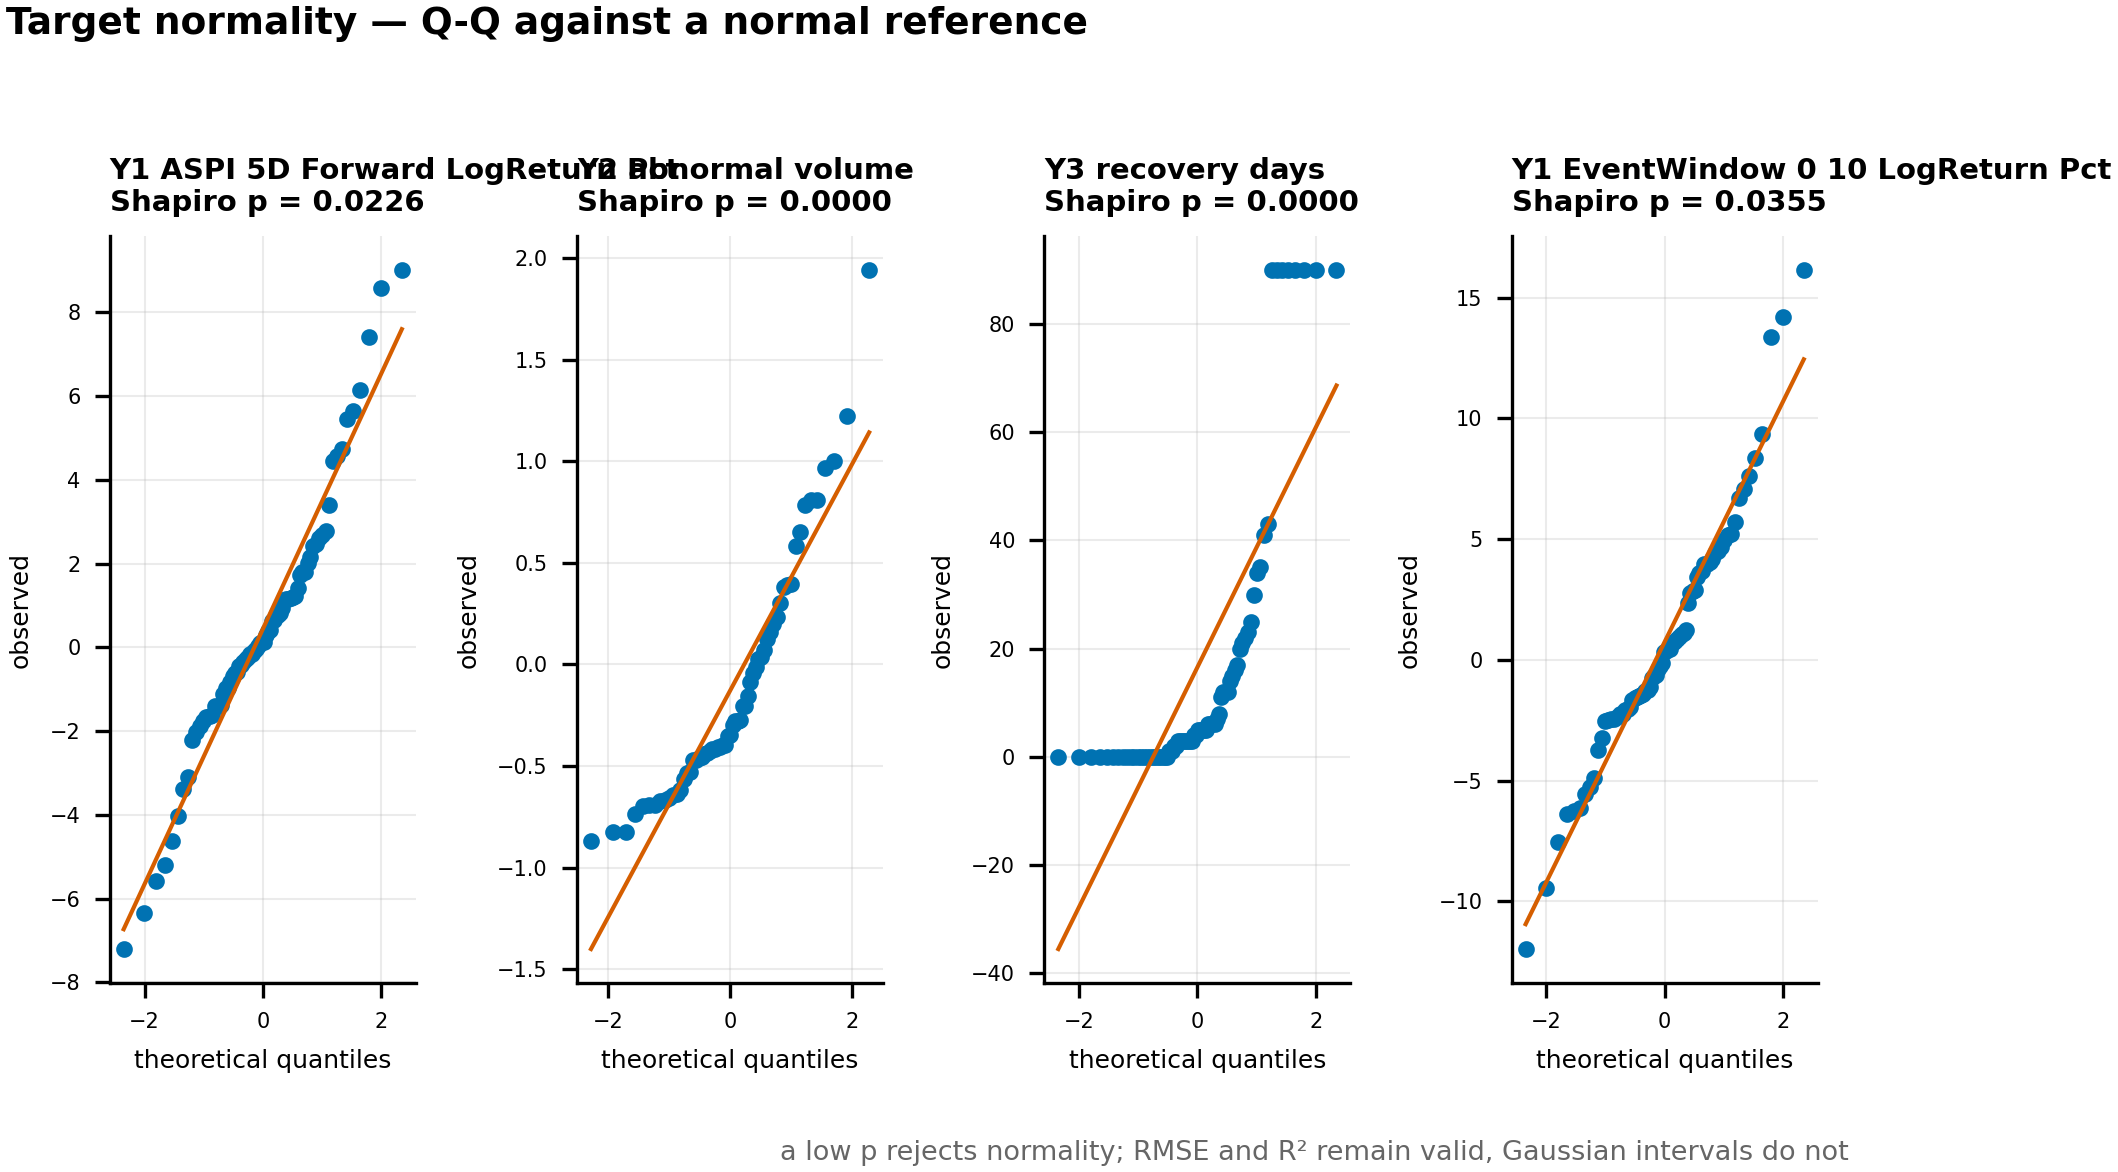
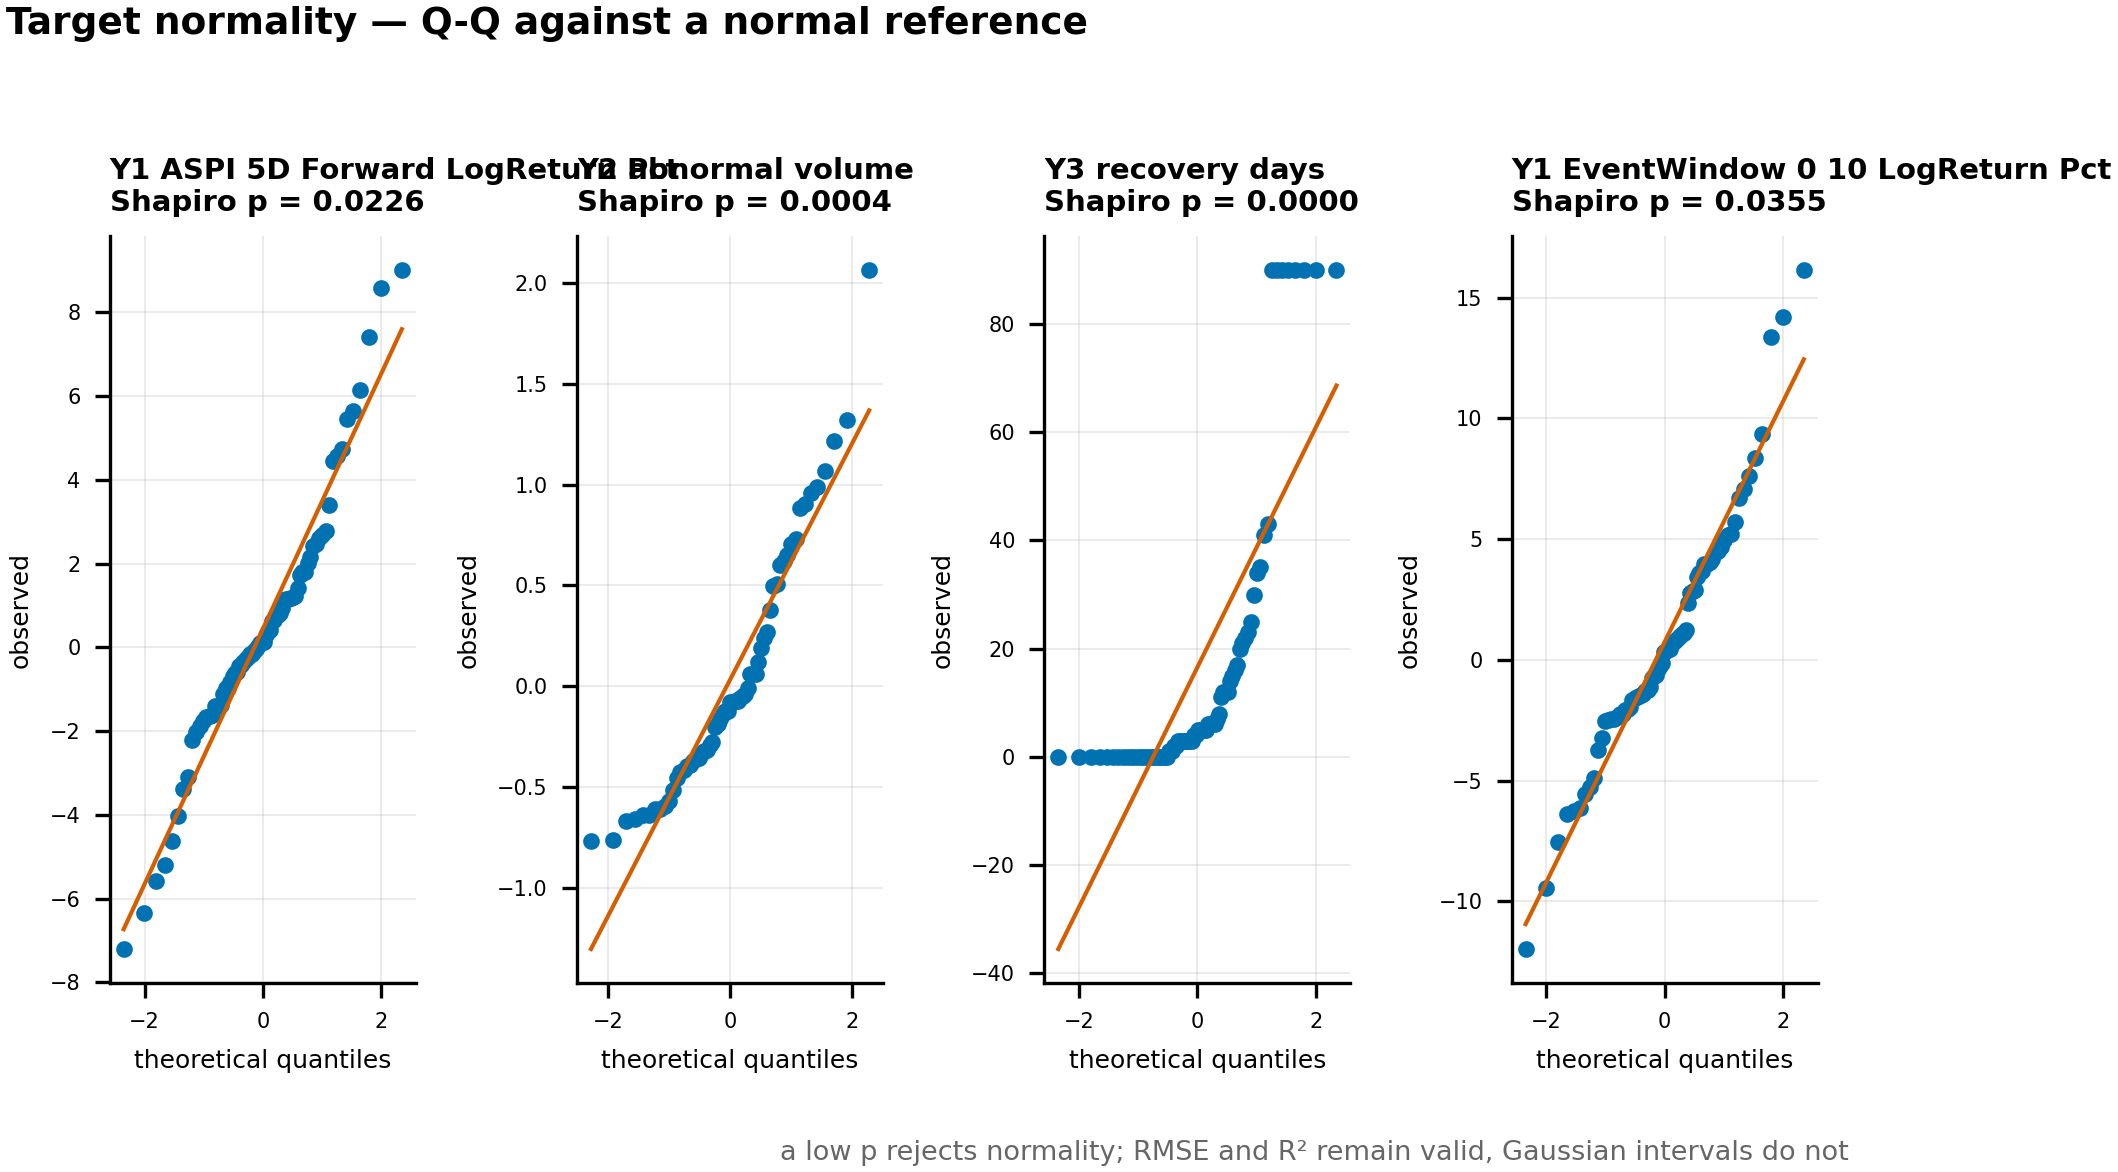
try changeing targets

diff --git a/src/targets/event_targets.py b/src/targets/event_targets.py
@@ -8,6 +8,7 @@ import pandas as pd
 ADVERSE_RESPONSE_WINDOW = 5
 DEFAULT_MAX_RECOVERY_DAYS = 90
 ASPI_FORWARD_SESSIONS = 5
+VOLUME_RESPONSE_SESSIONS = 5
 EVENT_WINDOW_SESSIONS = (10,)
 
 
@@ -40,19 +41,33 @@ def calculate_aspi_percentage_change(market, position, pre_event_close, sessions
 
 
 def calculate_volume_crash_magnitude(market, position, volume_col="trading_volume",
-                                     baseline_sessions=30):
-    """Event day volume relative to its own trailing baseline, minus one.
+                                     baseline_sessions=30,
+                                     response_sessions=VOLUME_RESPONSE_SESSIONS,
+                                     date_col="date"):
+    """Mean volume over the response window against its own trailing baseline, minus one.
 
-    Returns NaN when the series carries no volume column, which is the case for
-    the sector indices where the exchange publishes volume market wide only.
+    The response window is the FIVE post event sessions t0 .. t0+4, t0 counted as the
+    first. Returns (value, label_end_date); the label end date is the final session of
+    that window, NOT t0 -- the walk forward purge reads it, so dating it at t0 would
+    leave training rows whose window overlaps the test period unpurged.
+
+    Returns NaN when the series carries no volume column, which is the case for the
+    sector indices where the exchange publishes volume market wide only, and when the
+    window would run off the end of the series rather than be silently truncated.
     """
     if volume_col not in market.columns:
-        return np.nan
+        return np.nan, pd.NaT
     baseline_start = max(0, position - baseline_sessions)
     baseline_mean = market.iloc[baseline_start:position][volume_col].mean()
     if not baseline_mean or np.isnan(baseline_mean):
-        return np.nan
-    return float((market.iloc[position][volume_col] / baseline_mean) - 1.0)
+        return np.nan, pd.NaT
+    end = position + response_sessions - 1
+    if end >= len(market):
+        return np.nan, pd.NaT
+    window = market.iloc[position:end + 1][volume_col]
+    if window.isna().any():
+        return np.nan, pd.NaT
+    return float((window.mean() / baseline_mean) - 1.0), market.iloc[end][date_col]
 
 
 def find_competing_event_position(market, event_dates_sorted, row_index, date_col="date"):
@@ -119,8 +134,8 @@ def build_event_targets(market_df, disaster_df, date_col="date", price_col="aspi
 
         aspi_change, aspi_end_date = calculate_aspi_percentage_change(
             market, position, pre_event_close, ASPI_FORWARD_SESSIONS, date_col, price_col)
-        volume_crash = calculate_volume_crash_magnitude(market, position, volume_col)
-        volume_label_end_date = market.iloc[position][date_col]
+        volume_crash, volume_label_end_date = calculate_volume_crash_magnitude(
+            market, position, volume_col, date_col=date_col)
 
         competing_position = find_competing_event_position(
             market, event_dates_sorted, row_index, date_col)
@@ -165,7 +180,7 @@ if __name__ == "__main__":
     price = np.full(80, 100.0)
     price[40:46] = [95.0, 96.0, 97.0, 98.0, 99.0, 101.0]
     volume = np.full(80, 1_000.0)
-    volume[40] = 2_000.0
+    volume[40:45] = 2_000.0          # the whole five session response window
     market = pd.DataFrame({"date": sessions, "aspi_close": price, "trading_volume": volume})
     events = pd.DataFrame({"event_date": [sessions[40]]})
 
@@ -173,6 +188,8 @@ if __name__ == "__main__":
     row = out.iloc[0]
 
     assert row["Y2_abnormal_volume"] == 1.0, row["Y2_abnormal_volume"]
+    # Y2's label is not known until the response window closes at t0+4.
+    assert row["Y2_label_end_date"] == sessions[44], row["Y2_label_end_date"]
     assert abs(row["Y1_ASPI_5D_Forward_LogReturn_Pct"] - 100.0 * np.log(101.0 / 100.0)) < 1e-9
     assert bool(row["Y3_drawdown_occurred"])
     assert row["Y3_recovery_days"] == 5.0, row["Y3_recovery_days"]

diff --git a/src/features/feature_engineering.py b/src/features/feature_engineering.py
@@ -112,7 +112,7 @@ class FeatureEngineer:
             df[f"rolling_std_{window}"] = shifted_returns.rolling(window=window, min_periods=window).std()
 
         # Dedicated 30-day panic-proxy volatility, distinct from the momentum windows above:
-        # this is the window that mirrors the 30-day volume baseline used for Y2.
+        # this is the window that mirrors the 30-session pre-event volume baseline in Y2.
         df["rolling_std_30"] = shifted_returns.rolling(window=30, min_periods=30).std()
 
         df["squared_return"] = df["log_return"] ** 2

diff --git a/src/models/classifiers.py b/src/models/classifiers.py
@@ -38,7 +38,8 @@ def label_adverse_move(y, train_idx, dataset=None):
 
 
 def label_volume_spike(y, train_idx=None, dataset=None):
-    """C2: Y2 > 0, i.e. volume above its own 30-day baseline.
+    """C2: Y2 > 0, i.e. mean volume over the five post-event sessions above the 30-session
+    pre-event baseline.
 
     Zero is where the target is centred by construction (Y2 = V/V_bar - 1), so this is the
     natural cut rather than a chosen one.

diff --git a/docs/target_definitions.md b/docs/target_definitions.md
@@ -1,0 +1,260 @@
+# Target definitions — as implemented
+
+Written for: the researcher, to adapt into thesis §3.2.2 and Table 4.
+
+This document states exactly what the code computes, in a form precise enough that a
+second person could reproduce the dataset from this page alone. It replaces the
+underspecified wording currently in §3.2.2, which defines Y1 as a daily return
+(`ln(P_t / P_{t−1})`) and leaves Y2's window and Y3's baseline unstated.
+
+Implementation: `src/targets/event_targets.py`. Dataset: 74 events, 2000-09-18 to
+2025-11-27.
+
+---
+
+## 1. Event alignment
+
+Let `t0` be the **first valid CSE trading session on or after the recorded disaster date**.
+
+A disaster falling on a Saturday, Sunday or market holiday advances `t0` to the next real
+trading session. No observation is fabricated for a non-trading day.
+
+`P[k]` denotes the ASPI close at session offset `k` from `t0`, and `V[k]` the market-wide
+traded volume (the sum of every listed security's share volume) at that session. So `P[−1]`
+is the last pre-event close and `P[0]` is the close on `t0` itself.
+
+**Counting convention.** Offsets are relative to `t0`, which carries offset 0. `t0+5` is
+therefore the sixth post-event session. State this explicitly in the thesis — it is the
+single most common source of irreproducibility in event studies.
+
+An event is excluded when `t0` cannot be located in the market series, or when `t0` is the
+first session of the series (no `P[−1]` exists to baseline against).
+
+---
+
+## 2. Y1 — ASPI percentage change
+
+```
+Y1_5D  = 100 · ln( P[+5] / P[−1] )
+Y1_10D = 100 · ln( P[+10] / P[−1] )
+```
+
+The continuously compounded return, in percent, from the last pre-event close to the
+close five (respectively ten) sessions after the disaster session.
+
+|                  |                                                                               |
+| ---------------- | ----------------------------------------------------------------------------- |
+| units            | percent (log points)                                                          |
+| support          | unbounded                                                                     |
+| sessions spanned | **Y1_5D spans 7 sessions**, `t0−1` through `t0+5`; Y1_10D spans 12 |
+| label-end date   | `date[t0+5]` / `date[t0+10]`                                              |
+| missing when     | fewer than 5 (resp. 10) sessions remain in the series after`t0`             |
+
+**Wording caution.** Calling `Y1_5D` a "five-day window" is inaccurate — the return covers
+six steps across seven sessions. Either rename it (e.g. "five-session forward return from
+the pre-event close") or change the endpoint to `P[+4]`, which genuinely spans five
+post-event sessions. Do not leave the label and the formula disagreeing.
+
+`Y1_10D` is a pre-registered sensitivity analysis of Y1, not a fourth research target.
+
+### Observed values
+
+|        | n  | mean   | sd    | min      | p25     | median | p75    | max     |
+| ------ | -- | ------ | ----- | -------- | ------- | ------ | ------ | ------- |
+| Y1 5D  | 74 | +0.433 | 3.053 | −7.203  | −1.072 | +0.120 | +1.775 | +9.009  |
+| Y1 10D | 74 | +0.749 | 4.983 | −11.981 | −2.053 | +0.349 | +3.888 | +16.150 |
+
+45.9% of events are negative at 5 sessions, 48.6% at 10. The distribution is close to
+symmetric around zero — disasters do not, on average, move the CSE in a fixed direction.
+
+---
+
+## 3. Y2 — abnormal trading volume
+
+```
+V_base = mean( V[-30] … V[-1] )          30 sessions, t0 excluded
+
+Y2 = mean( V[0] … V[+4] ) / V_base - 1
+```
+
+Mean market-wide traded volume over the **five post-event sessions**, `t0` counted as the
+first, relative to its own trailing 30-session mean, minus one.
+
+| | |
+|---|---|
+| units | ratio (0.50 means 50% above the baseline) |
+| support | `[-1, inf)` — volume cannot be negative |
+| response window | `t0` … `t0+4`, exactly 5 sessions |
+| baseline window | `t0-30` … `t0-1`, exactly 30 sessions, `t0` excluded |
+| label-end date | `date[t0+4]` |
+| missing when | the volume series is unavailable, or fewer than 5 sessions remain after `t0` |
+
+**Label-end date.** `date[t0+4]`, the final session of the response window — not `t0`. The
+walk-forward purge reads this column to drop training events whose label reaches into a
+test period. Dating it at `t0` would under-purge by four sessions and let test-period
+information into training. This is a correctness requirement, not a convention.
+
+**Window alignment.** Y2 closes at `t0+4`; Y1_5D closes at `t0+5`. The two "5-day" targets
+therefore end on different sessions, because Y1 is a return measured from `P[-1]` while Y2
+is a mean over five post-event sessions. If the thesis needs them aligned, either extend
+Y2 to `V[0] … V[+5]` or move Y1's endpoint to `P[+4]`.
+
+**Naming.** "Volume crash magnitude" presupposes a negative sign. 37.7% of observed values
+are positive. Prefer "abnormal trading volume" or "post-disaster volume deviation".
+
+### Observed values
+
+| n | mean | sd | min | p25 | median | p75 | max |
+|---|---|---|---|---|---|---|---|
+| 61 | +0.032 | 0.600 | -0.769 | — | -0.080 | — | +2.066 |
+
+Observed for 61 of 74 events. The 13 missing are the 2000 archive year and post-2023
+events, where the exchange publishes the index level but not market-wide volume. These
+must stay missing — never zero-filled, which would assert "volume exactly at baseline."
+
+---
+
+## 4. Y3 — market recovery sessions
+
+Baseline for recovery is the **last pre-event close**, `P[−1]`.
+
+Three steps:
+
+1. **Adverse-response gate.** Examine `P[0] … P[+5]`. Let the trough be the minimum close
+   in that window. A qualifying drawdown occurs when `trough < P[−1]`.
+2. **No qualifying drawdown** → `Y3 = 0`, `drawdown_occurred = False`. The market never
+   fell below its pre-event level, so no recovery duration is defined. This is a recorded
+   state, not a fabricated duration of zero days.
+3. **Drawdown occurred** → search forward from the trough session for the first session
+   where `P[k] ≥ P[−1]`. Then `Y3 = k`, counted from `t0`.
+
+```
+Y3 = k  such that  P[k] ≥ P[−1],  k measured from t0,
+     searching forward from the trough of P[0..+5]
+```
+
+|                |                                                        |
+| -------------- | ------------------------------------------------------ |
+| units          | CSE trading sessions                                   |
+| support        | `[0, 90]`                                            |
+| label-end date | `date[t0 + Y3]` — the recovery or censoring session |
+
+**Two distinct origins.** The recovery *search* begins at the trough; the recovery *count*
+runs from `t0`. These are different points and must not be conflated. State both.
+
+### Censoring
+
+Recovery that is not observed is **right-censored**, not recorded as a genuine 90-session
+recovery:
+
+| `Y3_censor_reason` | meaning                                        | `Y3_censored` | n  |
+| -------------------- | ---------------------------------------------- | --------------- | -- |
+| `recovered`        | recovery observed, or no drawdown occurred     | False           | 57 |
+| `cap_90`           | still below`P[−1]` after 90 sessions        | True            | 8  |
+| `next_disaster`    | a further qualifying disaster intervened first | True            | 9  |
+
+The competing-event case matters: when a second disaster arrives before the first has
+recovered, the follow-up is truncated at that session rather than attributing the second
+event's market movement to the first.
+
+Note a labelling quirk in the current implementation: events with **no drawdown** are given
+`censor_reason = "recovered"`, which is misleading — nothing was recovered because nothing
+fell. If you revise, `"no_drawdown"` is the clearer value. It does not affect any
+computation, only readability.
+
+Any censoring-aware model (survival, hurdle) must read `Y3_censored`, not infer censoring
+from `Y3 >= 90`.
+
+### Observed values
+
+| n  | mean   | sd     | min | p25 | median | p75   | max |
+| -- | ------ | ------ | --- | --- | ------ | ----- | --- |
+| 74 | 16.554 | 27.654 | 0   | 0   | 4.5    | 16.75 | 90  |
+
+- 51 of 74 events (68.9%) show a qualifying drawdown.
+- 23 events (31.1%) record `Y3 = 0` — no drawdown.
+- 17 events (23.0%) are censored: 8 at the cap, 9 by a competing disaster.
+- Among the 34 events with an **observed** recovery: median 5 sessions, p75 12, max 34.
+
+The distribution is right-skewed with a point mass at zero. Any model whose prediction
+carries a floor — for example a hurdle whose expectation includes a `(1 − P) · 90` term —
+is structurally disadvantaged against it.
+
+---
+
+## 5. Label-end dates
+
+Every target carries the session on which its value becomes fully known. The walk-forward
+purge reads these to drop training events whose label reaches into a test period.
+
+| target | column                                   | value             |
+| ------ | ---------------------------------------- | ----------------- |
+| Y1 5D  | `Y1_horizon_end_date`                  | `date[t0+5]`    |
+| Y1 10D | `Y1_EventWindow_0_10_horizon_end_date` | `date[t0+10]`   |
+| Y2     | `Y2_label_end_date`                    | `date[t0]`      |
+| Y3     | `Y3_label_end_date`                    | `date[t0 + Y3]` |
+
+If any target's window changes, its label-end date must change with it. This is not
+cosmetic — a stale label-end date is a leakage defect.
+
+---
+
+## 6. Worked example — 2004 Indian Ocean tsunami
+
+Disaster date 2004-12-26, a Sunday. 2004-12-27 was a market holiday, so `t0` advances to
+**2004-12-28**.
+
+```
+P[−1]  = 1,572.55   (2004-12-23)    V_base = mean(V[−30..−1]) = 7,810,033 shares
+P[0]   = 1,504.41   (2004-12-28)    V[0]   = 4,374,300 shares
+P[+5]  = 1,524.75   (2005-01-04)
+P[+10] = 1,562.05   (2005-01-11)
+
+Y1_5D  = 100 · ln(1524.75 / 1572.55)   = −3.0868
+Y1_10D = 100 · ln(1562.05 / 1572.55)   = −0.6699
+Y2     = mean(V[0..+4]) / 7,810,033 - 1 = -0.3608
+Y3     = 12 sessions (drawdown occurred, recovery observed)
+```
+
+Y1 and Y2 were reproduced by hand from the raw exchange workbook and matched the code to
+the digit.
+
+Read the numbers: five sessions after the tsunami the ASPI stood 3.09% below its
+pre-event close; ten sessions after, 0.67% below. Turnover over the five post-event sessions ran 36% below its
+30-session norm. The index regained its pre-event level twelve sessions after the
+disaster.
+
+Note what the event day itself shows: the ASPI fell from 1,572.55 to 1,504.41 on `t0`, a
+4.3% single-session drop, and turnover halved. The index then recovered most of that
+within two weeks. This is the pattern the targets are built to measure.
+
+---
+
+## 7. Constants
+
+```
+pre-event volume baseline      30 trading sessions
+Y2 response window              5 sessions (t0 .. t0+4)
+Y1 primary horizon              5 sessions (endpoint t0+5)
+Y1 sensitivity horizon         10 sessions (endpoint t0+10)
+adverse-response gate           6 sessions (t0 .. t0+5)
+maximum recovery follow-up     90 trading sessions
+```
+
+Note the gate spans six sessions, `t0` through `t0+5`, not five. If the thesis describes a
+five-session detection window, either the text or the constant needs to change.
+
+---
+
+## 8. Checklist before the thesis goes out
+
+- [ ] §3.2.2 Y1 no longer says `ln(P_t / P_{t−1})` — that is a one-day return
+- [ ] Y1's label matches its span (7 sessions as implemented, or move the endpoint to `t0+4`)
+- [ ] Y2's units stated as a ratio, not a percentage, and not "dollar value" (§1.2.4 says dollars; volume is shares)
+- [ ] Y3's baseline named explicitly as `P[−1]`
+- [ ] Y3's two origins stated: search from trough, count from `t0`
+- [ ] Y3's no-drawdown convention stated: `Y3 = 0` with `drawdown_occurred = False`
+- [ ] Censoring distinguished from capping
+- [ ] "Trading sessions" used throughout, never "days" (§3.2.1 currently says days)
+- [ ] Table 4 target rows replaced
+- [ ] Figure 8 output labels updated

diff --git a/docs/architecture.md b/docs/architecture.md
@@ -30,8 +30,11 @@ The repository has exactly three research targets. They are defined in
    event close over five trading sessions: 100 ln(P at t plus 5 divided by P at t minus 1),
    where t is the first trading session on or after the disaster date.
 2. **Volume crash magnitude**, column `Y2_abnormal_volume`, computed by
-   `calculate_volume_crash_magnitude`. Event day traded volume relative to its own trailing
-   thirty session mean, minus one.
+   `calculate_volume_crash_magnitude`. Mean traded volume over the five post event sessions
+   t0 to t0+4, with t0 counted as the first, relative to its own trailing thirty session
+   mean, minus one. Its label end date is the final session of that window, t0 plus four,
+   not t0: the walk forward purge reads it, and dating it at t0 would leave training rows
+   whose window overlaps the test period unpurged.
 3. **Market recovery days**, column `Y3_recovery_days`, computed by
    `calculate_market_recovery_days`. The number of trading sessions until the index regains
    its pre event level, right censored at ninety sessions or at the next qualifying

diff --git a/README.md b/README.md
@@ -20,8 +20,10 @@ the market response.
 
 1. **ASPI percentage change.** The forward log return in percent from the last pre event
    close over five trading sessions.
-2. **Volume crash magnitude.** Event day traded volume relative to its own trailing thirty
-   session mean, minus one.
+2. **Abnormal trading volume.** Mean market wide traded volume over the five post event
+   sessions (t0 to t0+4, t0 counted as the first) relative to its own trailing thirty
+   session mean, minus one. The sign is two sided: a disaster can raise or suppress
+   turnover.
 3. **Market recovery days.** Trading sessions until the index regains its pre event level,
    right censored at ninety sessions or at the next qualifying disaster.
 
